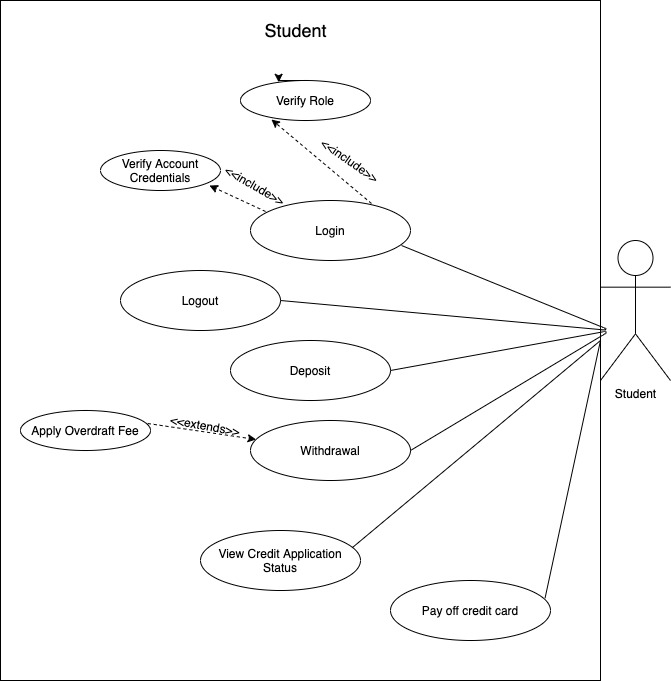
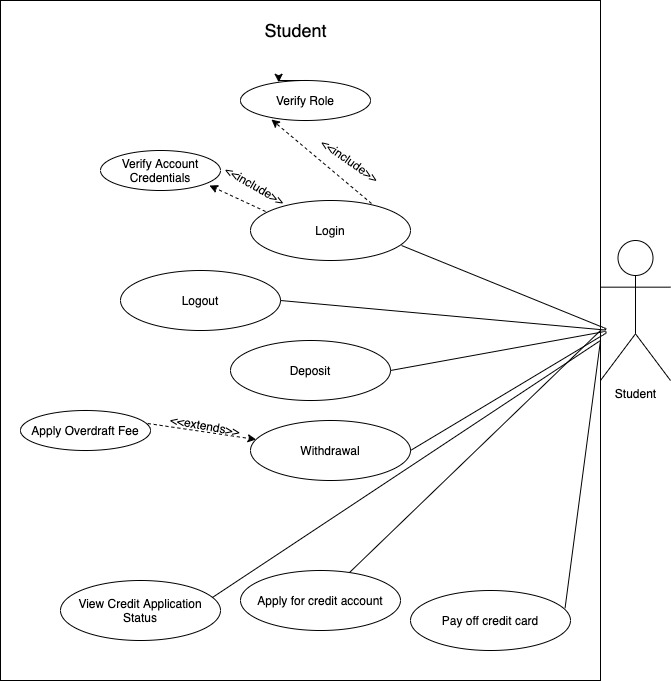
create bank account / credit app models and schemas

diff --git a/src/java/model/bank_accounts/CreditApplication.java b/src/java/model/bank_accounts/CreditApplication.java
@@ -1,0 +1,147 @@
+package model.bank_accounts;
+
+public class CreditApplication {
+    String firstName;
+    String lastName;
+    String address;
+    String city;
+    String state;
+    String email;
+    String phone;
+    int SSN;
+    int creditSore;
+    double income;
+    String password;
+    String studentId;
+    String status;
+    String dateApplied;
+
+    public CreditApplication(String firstName, String lastName, String address, String city, String state, String email, String phone, int SSN, int creditSore, double income, String password, String studentId, String status, String dateApplied) {
+        this.firstName = firstName;
+        this.lastName = lastName;
+        this.address = address;
+        this.city = city;
+        this.state = state;
+        this.email = email;
+        this.phone = phone;
+        this.SSN = SSN;
+        this.creditSore = creditSore;
+        this.income = income;
+        this.password = password;
+        this.studentId = studentId;
+        this.status = status;
+        this.dateApplied = dateApplied;
+    }
+
+    public String getFirstName() {
+        return firstName;
+    }
+
+    public void setFirstName(String firstName) {
+        this.firstName = firstName;
+    }
+
+    public String getLastName() {
+        return lastName;
+    }
+
+    public void setLastName(String lastName) {
+        this.lastName = lastName;
+    }
+
+    public String getAddress() {
+        return address;
+    }
+
+    public void setAddress(String address) {
+        this.address = address;
+    }
+
+    public String getCity() {
+        return city;
+    }
+
+    public void setCity(String city) {
+        this.city = city;
+    }
+
+    public String getState() {
+        return state;
+    }
+
+    public void setState(String state) {
+        this.state = state;
+    }
+
+    public String getEmail() {
+        return email;
+    }
+
+    public void setEmail(String email) {
+        this.email = email;
+    }
+
+    public String getPhone() {
+        return phone;
+    }
+
+    public void setPhone(String phone) {
+        this.phone = phone;
+    }
+
+    public int getSSN() {
+        return SSN;
+    }
+
+    public void setSSN(int SSN) {
+        this.SSN = SSN;
+    }
+
+    public int getCreditSore() {
+        return creditSore;
+    }
+
+    public void setCreditSore(int creditSore) {
+        this.creditSore = creditSore;
+    }
+
+    public double getIncome() {
+        return income;
+    }
+
+    public void setIncome(double income) {
+        this.income = income;
+    }
+
+    public String getPassword() {
+        return password;
+    }
+
+    public void setPassword(String password) {
+        this.password = password;
+    }
+
+    public String getStudentId() {
+        return studentId;
+    }
+
+    public void setStudentId(String studentId) {
+        this.studentId = studentId;
+    }
+
+    public String getStatus() {
+        return status;
+    }
+
+    public void setStatus(String status) {
+        this.status = status;
+    }
+
+    public String getDateApplied() {
+        return dateApplied;
+    }
+
+    public void setDateApplied(String dateApplied) {
+        this.dateApplied = dateApplied;
+    }
+}

diff --git a/src/java/model/Manager.java b/src/java/model/Manager.java
@@ -1,7 +1,7 @@
 package model;
 
 import util.MySQLConnect;
-import util.UserMappers;
+import util.ModelMappers;
 //import util.UserMapper;
 
 import java.util.List;
@@ -34,7 +34,7 @@ public class Manager extends User {
         String queryString = "SELECT * FROM employee;"; //query to get employees
 
         List<Map<String, Object>> resultList = mysql.getData(queryString); // get employees
-        List<Employee> employees = UserMappers.mapEmployees(resultList); // put into list
+        List<Employee> employees = ModelMappers.mapEmployees(resultList); // put into list
 
         return employees;
     }
@@ -50,7 +50,7 @@ public class Manager extends User {
         String queryString = "SELECT * FROM student;"; //query to get employees
 
         List<Map<String, Object>> resultList = mysql.getData(queryString); // get employees
-        List<Student> students = UserMappers.mapStudents(resultList); // put into list
+        List<Student> students = ModelMappers.mapStudents(resultList); // put into list
 
         return students;
     }
@@ -61,7 +61,7 @@ public class Manager extends User {
         String queryString = "SELECT * FROM manager;"; //query to get employees
 
         List<Map<String, Object>> resultList = mysql.getData(queryString); // get employees
-        List<Manager> managers = UserMappers.mapManagers(resultList); // put into list
+        List<Manager> managers = ModelMappers.mapManagers(resultList); // put into list
 
         return managers;
     }

diff --git a/src/java/model/bank_accounts/Credit.java b/src/java/model/bank_accounts/Credit.java
@@ -1,0 +1,48 @@
+package model.bank_accounts;
+
+public class Credit extends Account {
+    double balance;
+    double statementBalance;
+    double availableCredit;
+    double apr;
+
+    public Credit(int id, String dateOpened, boolean isActive, int studentId, double balance, double statementBalance, double availableCredit, double apr) {
+        super(id, dateOpened, isActive, studentId);
+        this.balance = balance;
+        this.statementBalance = statementBalance;
+        this.availableCredit = availableCredit;
+        this.apr = apr;
+    }
+
+    public double getBalance() {
+        return balance;
+    }
+
+    public void setBalance(double balance) {
+        this.balance = balance;
+    }
+
+    public double getStatementBalance() {
+        return statementBalance;
+    }
+
+    public void setStatementBalance(double statementBalance) {
+        this.statementBalance = statementBalance;
+    }
+
+    public double getAvailableCredit() {
+        return availableCredit;
+    }
+
+    public void setAvailableCredit(double availableCredit) {
+        this.availableCredit = availableCredit;
+    }
+
+    public double getApr() {
+        return apr;
+    }
+
+    public void setApr(double apr) {
+        this.apr = apr;
+    }
+}

diff --git a/src/java/views/ManagerViewAllManagers.java b/src/java/views/ManagerViewAllManagers.java
@@ -1,31 +1,18 @@
 package views;
 
 import model.Manager;
-import model.Student;
 
-import javax.swing.*;
 import javax.swing.border.EmptyBorder;
 import javax.swing.table.DefaultTableModel;
-import java.awt.*;
 import java.awt.event.MouseAdapter;
 import java.awt.event.MouseEvent;
 import java.util.ArrayList;
 import java.util.List;
-import model.Manager;
-import model.Student;
-import model.User;
-import util.MySQLConnect;
-import util.UserMappers;
 //import util.UserMapper;
 
 import java.awt.EventQueue;
 import java.awt.Panel;
 import java.awt.Point;
-import java.awt.event.MouseAdapter;
-import java.awt.event.MouseEvent;
-import java.util.ArrayList;
-import java.util.List;
-import java.util.Map;
 
 import javax.swing.JButton;
 import javax.swing.JFrame;
@@ -34,8 +21,6 @@ import javax.swing.JPanel;
 import javax.swing.JScrollPane;
 import javax.swing.JTable;
 import javax.swing.SwingConstants;
-import javax.swing.border.EmptyBorder;
-import javax.swing.table.DefaultTableModel;
 
 public class ManagerViewAllManagers extends JFrame {
 

diff --git a/src/java/views/ManagerViewAllEmployees.java b/src/java/views/ManagerViewAllEmployees.java
@@ -10,18 +10,13 @@ package views;
 
 import model.Employee;
 import model.Manager;
-import model.User;
-import util.MySQLConnect;
-import util.UserMappers;
 
 import java.awt.EventQueue;
 import java.awt.Panel;
-import java.awt.Point;
 import java.awt.event.MouseAdapter;
 import java.awt.event.MouseEvent;
 import java.util.ArrayList;
 import java.util.List;
-import java.util.Map;
 
 import javax.swing.JButton;
 import javax.swing.JFrame;
@@ -32,7 +27,6 @@ import javax.swing.JTable;
 import javax.swing.SwingConstants;
 import javax.swing.border.EmptyBorder;
 import javax.swing.table.DefaultTableModel;
-import javax.swing.table.JTableHeader;
 
 public class ManagerViewAllEmployees extends JFrame {
 

diff --git a/src/java/model/bank_accounts/Savings.java b/src/java/model/bank_accounts/Savings.java
@@ -1,0 +1,28 @@
+package model.bank_accounts;
+
+public class Savings extends Account {
+    double total;
+    double interest;
+
+    public Savings(int id, String dateOpened, boolean isActive, int studentId, double total, double interest) {
+        super(id, dateOpened, isActive, studentId);
+        this.total = total;
+        this.interest = interest;
+    }
+
+    public double getTotal() {
+        return total;
+    }
+
+    public void setTotal(double total) {
+        this.total = total;
+    }
+
+    public double getInterest() {
+        return interest;
+    }
+
+    public void setInterest(double interest) {
+        this.interest = interest;
+    }
+}

diff --git a/src/java/views/ManagerViewAllStudents.java b/src/java/views/ManagerViewAllStudents.java
@@ -2,9 +2,6 @@ package views;
 
 import model.Manager;
 import model.Student;
-import model.User;
-import util.MySQLConnect;
-import util.UserMappers;
 //import util.UserMapper;
 
 import java.awt.EventQueue;
@@ -14,7 +11,6 @@ import java.awt.event.MouseAdapter;
 import java.awt.event.MouseEvent;
 import java.util.ArrayList;
 import java.util.List;
-import java.util.Map;
 
 import javax.swing.JButton;
 import javax.swing.JFrame;

diff --git a/src/java/util/MySqlConnectionExample.java b/src/java/util/MySqlConnectionExample.java
@@ -1,14 +1,9 @@
 package util;
 
-import model.Checkings;
-import model.Employee;
-import model.Manager;
-import model.User;
-import util.MySQLConnect;
+import model.bank_accounts.Checkings;
 
 import java.sql.SQLException;
 import java.time.Instant;
-import java.util.*;
 
 public class MySqlConnectionExample {
     public static void main(String[] args) throws SQLException {

diff --git a/src/java/util/ModelMappers.java b/src/java/util/ModelMappers.java
@@ -10,7 +10,7 @@ import java.util.Map;
 import model.Manager;
 
 // Util methods to map users from MySQL database to User model classes
-public class UserMappers {
+public class ModelMappers {
 
     public static List<Manager> mapManagers(List<Map<String, Object>> resultList) {
         List<Manager> managers = new ArrayList<>();

diff --git a/src/java/model/bank_accounts/Checkings.java b/src/java/model/bank_accounts/Checkings.java
@@ -1,6 +1,6 @@
-package model;
+package model.bank_accounts;
 
-public class Checkings extends Account{
+public class Checkings extends Account {
     double total;
     boolean isOverdrafted;
 

diff --git a/src/java/model/bank_accounts/Account.java b/src/java/model/bank_accounts/Account.java
@@ -1,4 +1,4 @@
-package model;
+package model.bank_accounts;
 
 public class Account {
     int id;
